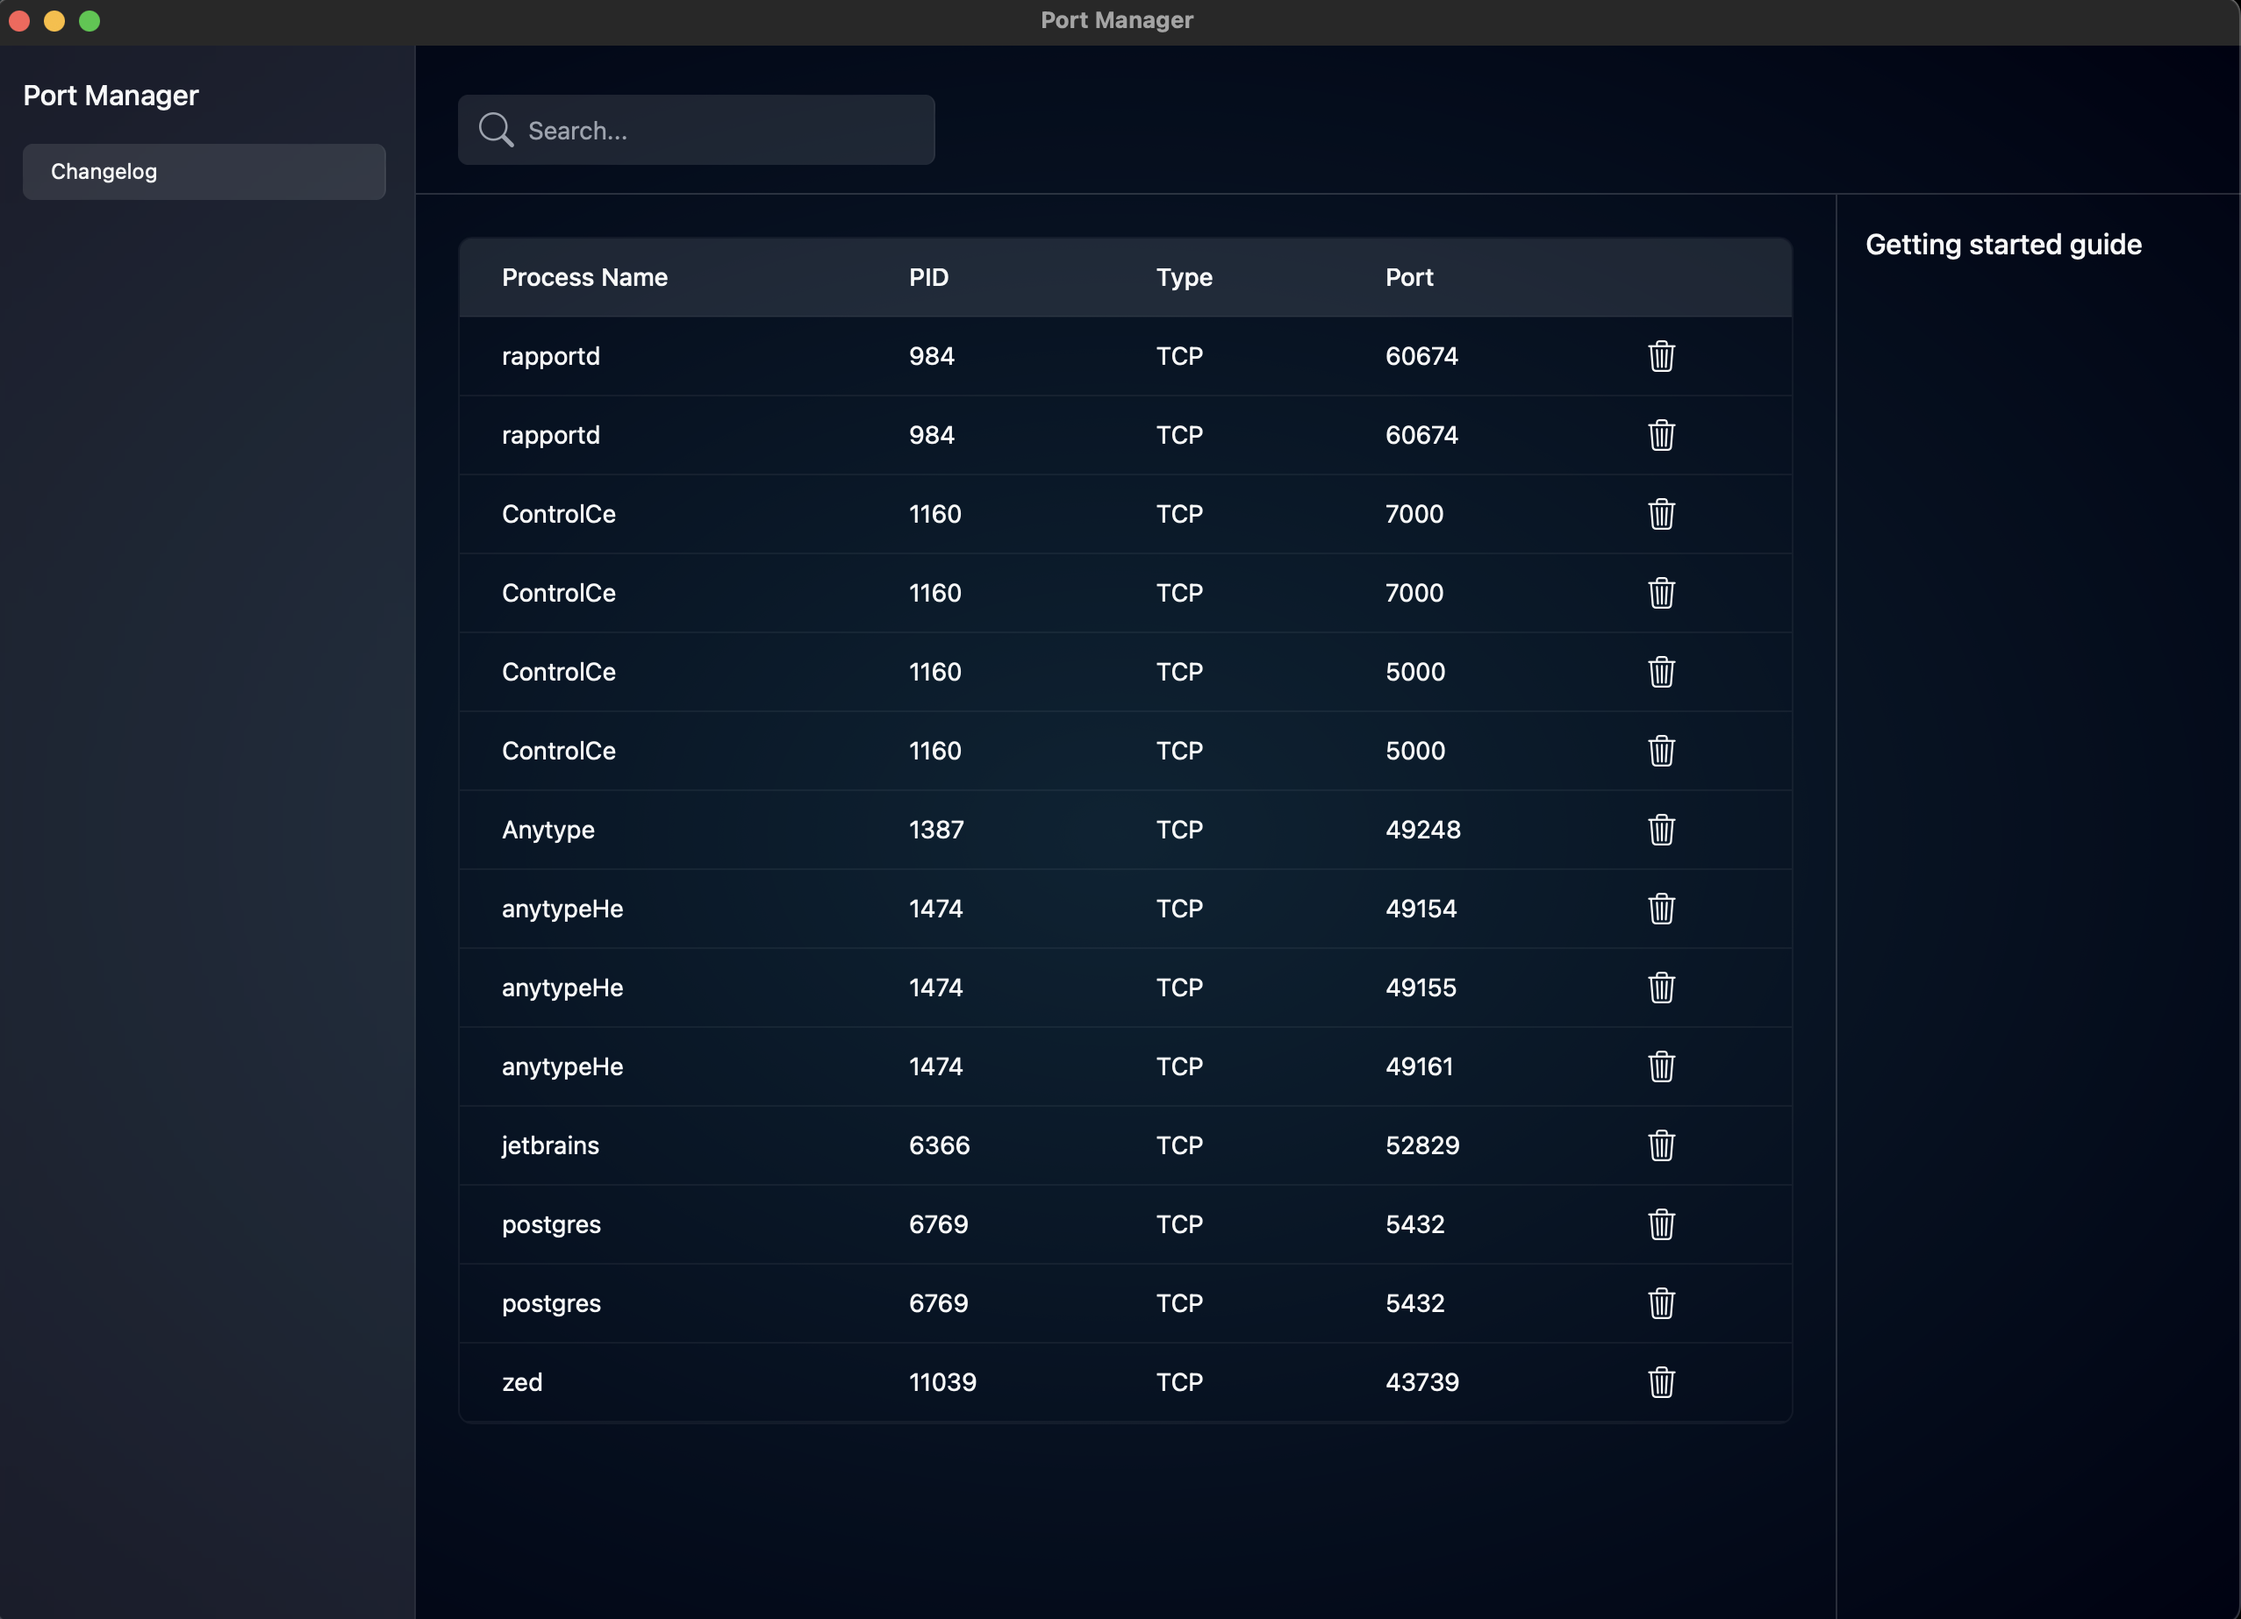
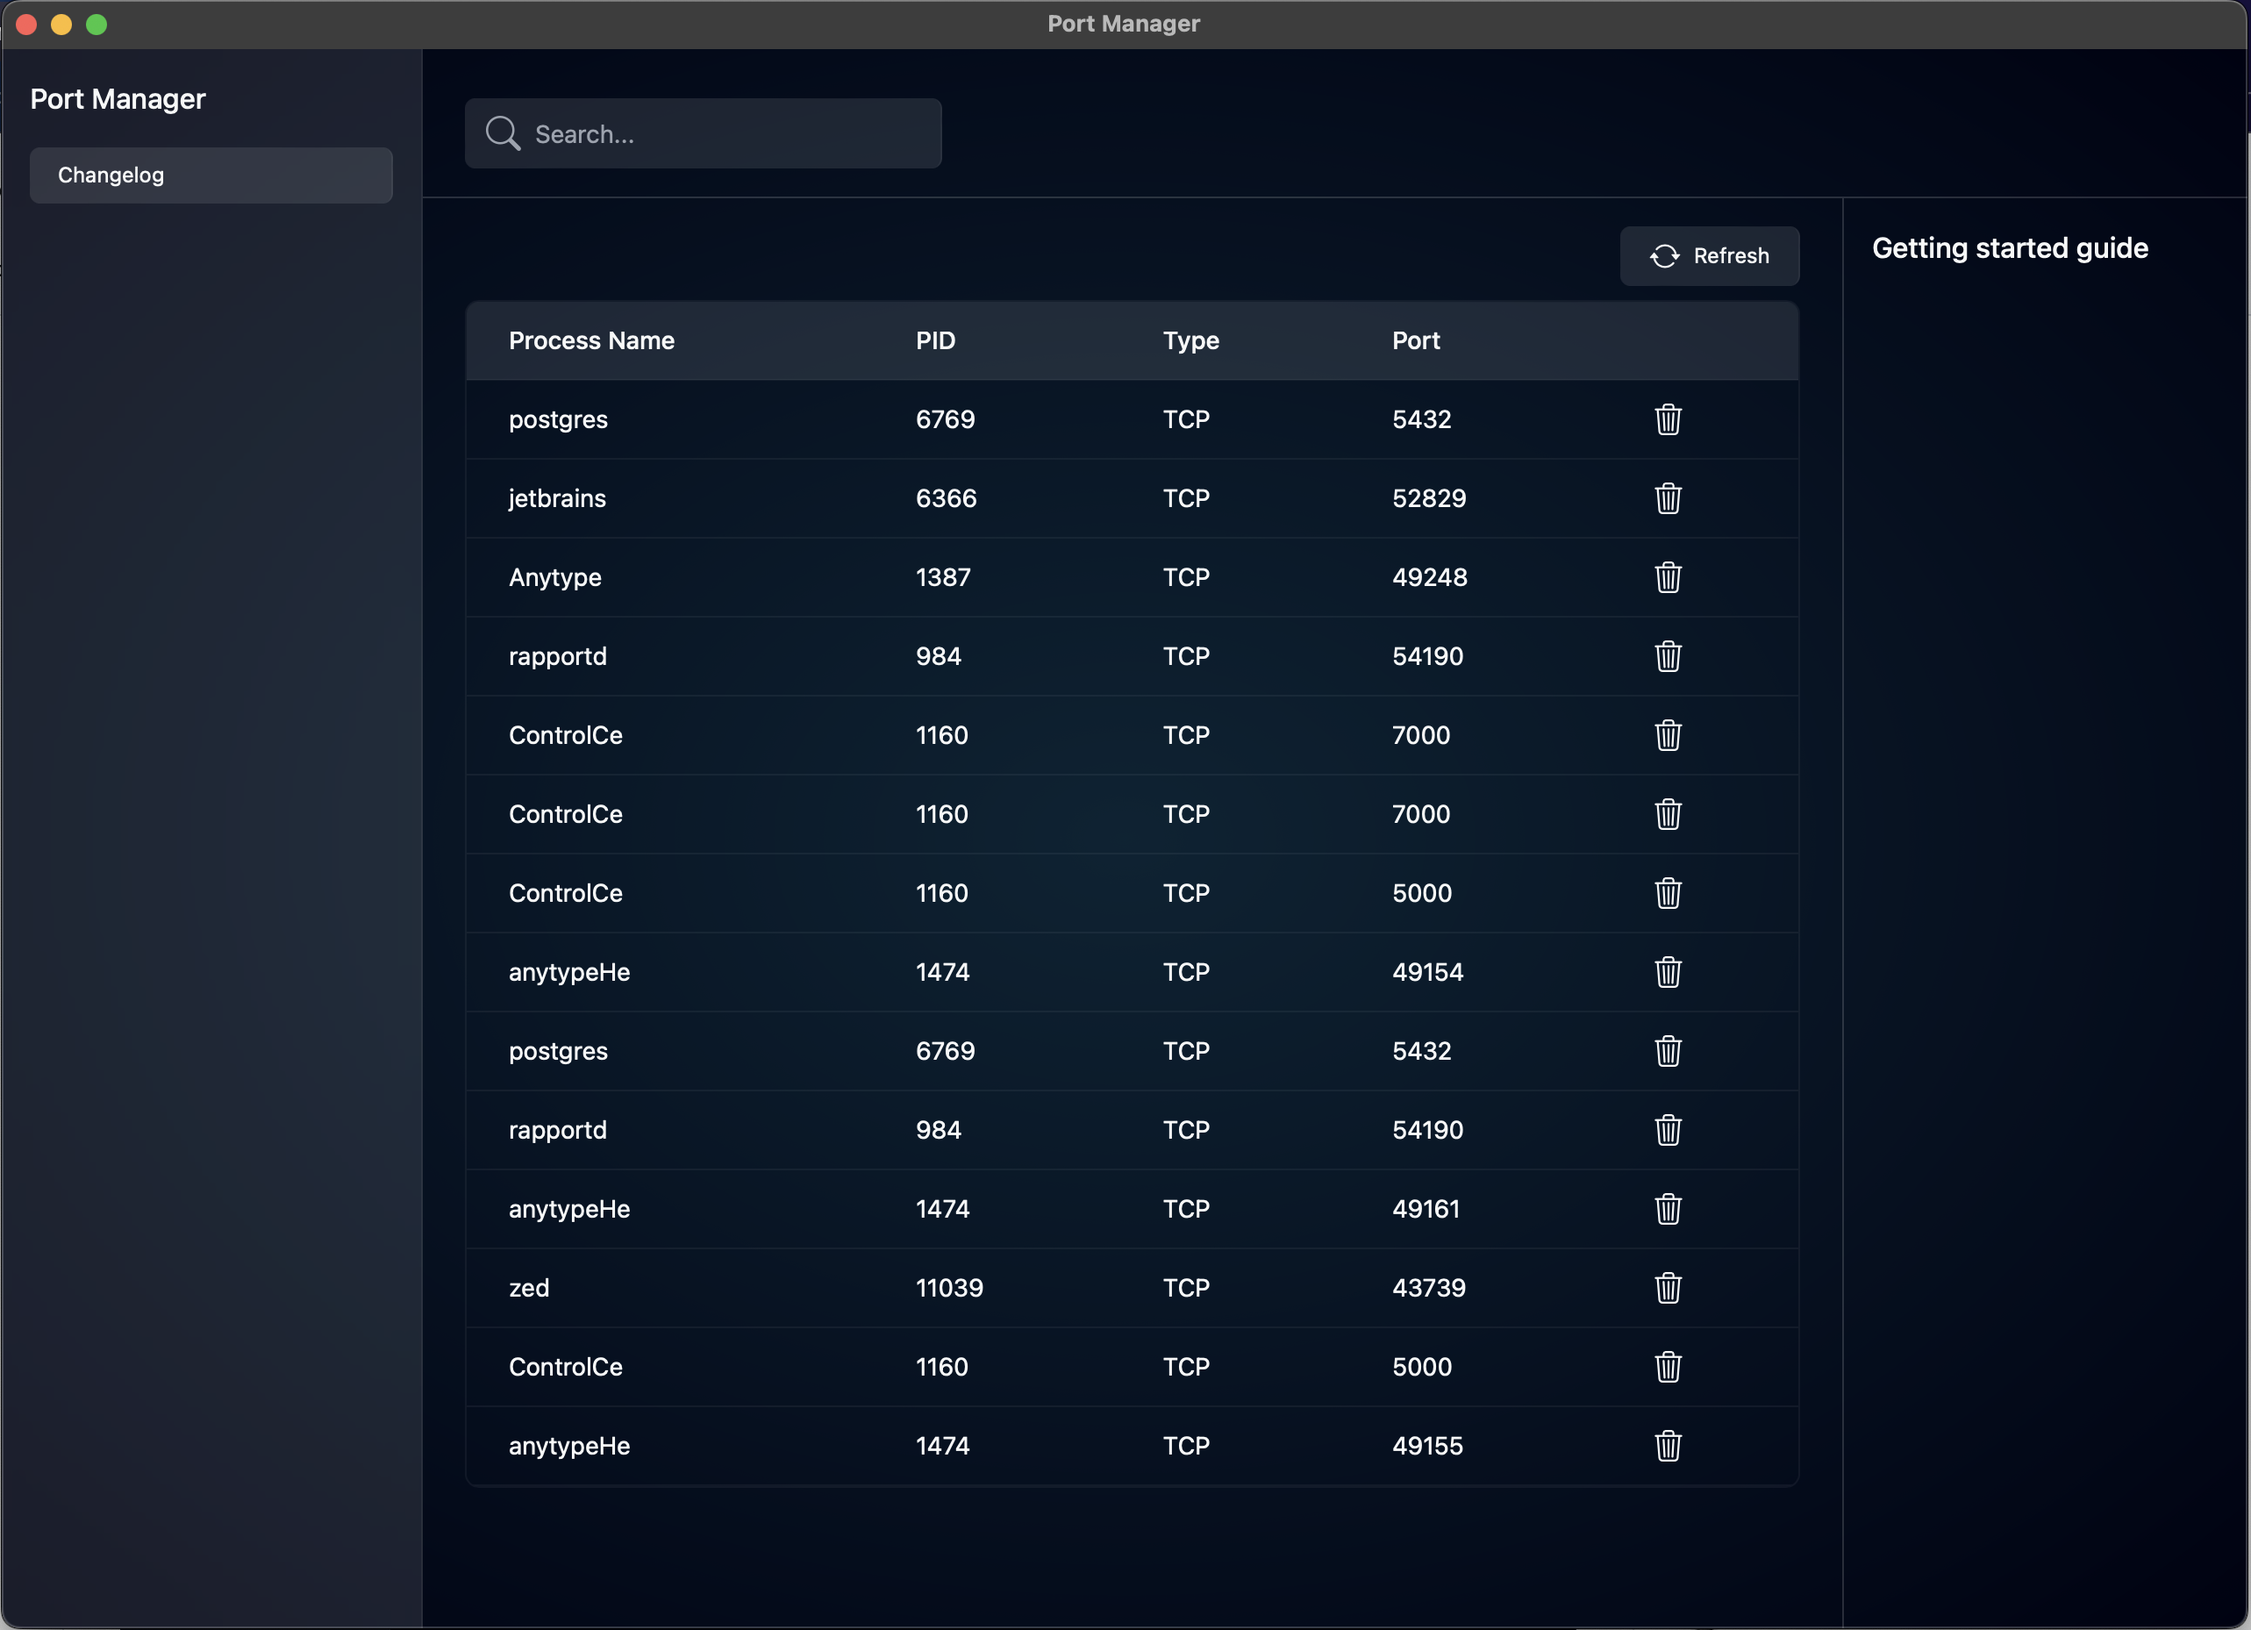
add refresh button

diff --git a/src/app.rs b/src/app.rs
@@ -73,7 +73,18 @@ pub fn MainContent() -> Element {
                 div {
                     class: "col-span-3 border-r border-[rgba(255,255,255,0.15)]",
                     div {
-                        class: "p-6",
+                        class: "flex justify-between px-6 pt-4",
+                        div {}
+                        div {
+                            button {
+                                class: "inline-flex items-center w-full bg-[rgba(255,255,255,0.1)] border-r border-solid border-[rgba(255,255,255,0.05)] text-xs px-4 py-2 text-center rounded-md",
+                                span {class: "pr-2", RefreshIcon {}},
+                                "Refresh"
+                            }
+                        }
+                    }
+                    div {
+                        class: "px-6 pt-2",
                         if !search_input.to_string().is_empty() {
                             SearchResult{lsof_list: proc_list.clone(), search_text: search_input.to_string()}
                         } else {

diff --git a/src/icon.rs b/src/icon.rs
@@ -26,3 +26,20 @@ pub fn DeleteIcon() -> Element {
         }
     )
 }
+
+pub fn RefreshIcon() -> Element {
+    rsx!(
+        svg {
+            xmlns: "http://www.w3.org/2000/svg",
+            width: "18",
+            height: "18",
+            view_box: "0 0 16 16",
+            fill: "currentColor",
+            path { d: "M11.534 7h3.932a.25.25 0 0 1 .192.41l-1.966 2.36a.25.25 0 0 1-.384 0l-1.966-2.36a.25.25 0 0 1 .192-.41m-11 2h3.932a.25.25 0 0 0 .192-.41L2.692 6.23a.25.25 0 0 0-.384 0L.342 8.59A.25.25 0 0 0 .534 9" }
+            path {
+                fill_rule: "evenodd",
+                d: "M8 3c-1.552 0-2.94.707-3.857 1.818a.5.5 0 1 1-.771-.636A6.002 6.002 0 0 1 13.917 7H12.9A5 5 0 0 0 8 3M3.1 9a5.002 5.002 0 0 0 8.757 2.182.5.5 0 1 1 .771.636A6.002 6.002 0 0 1 2.083 9z"
+            }
+        }
+    )
+}
